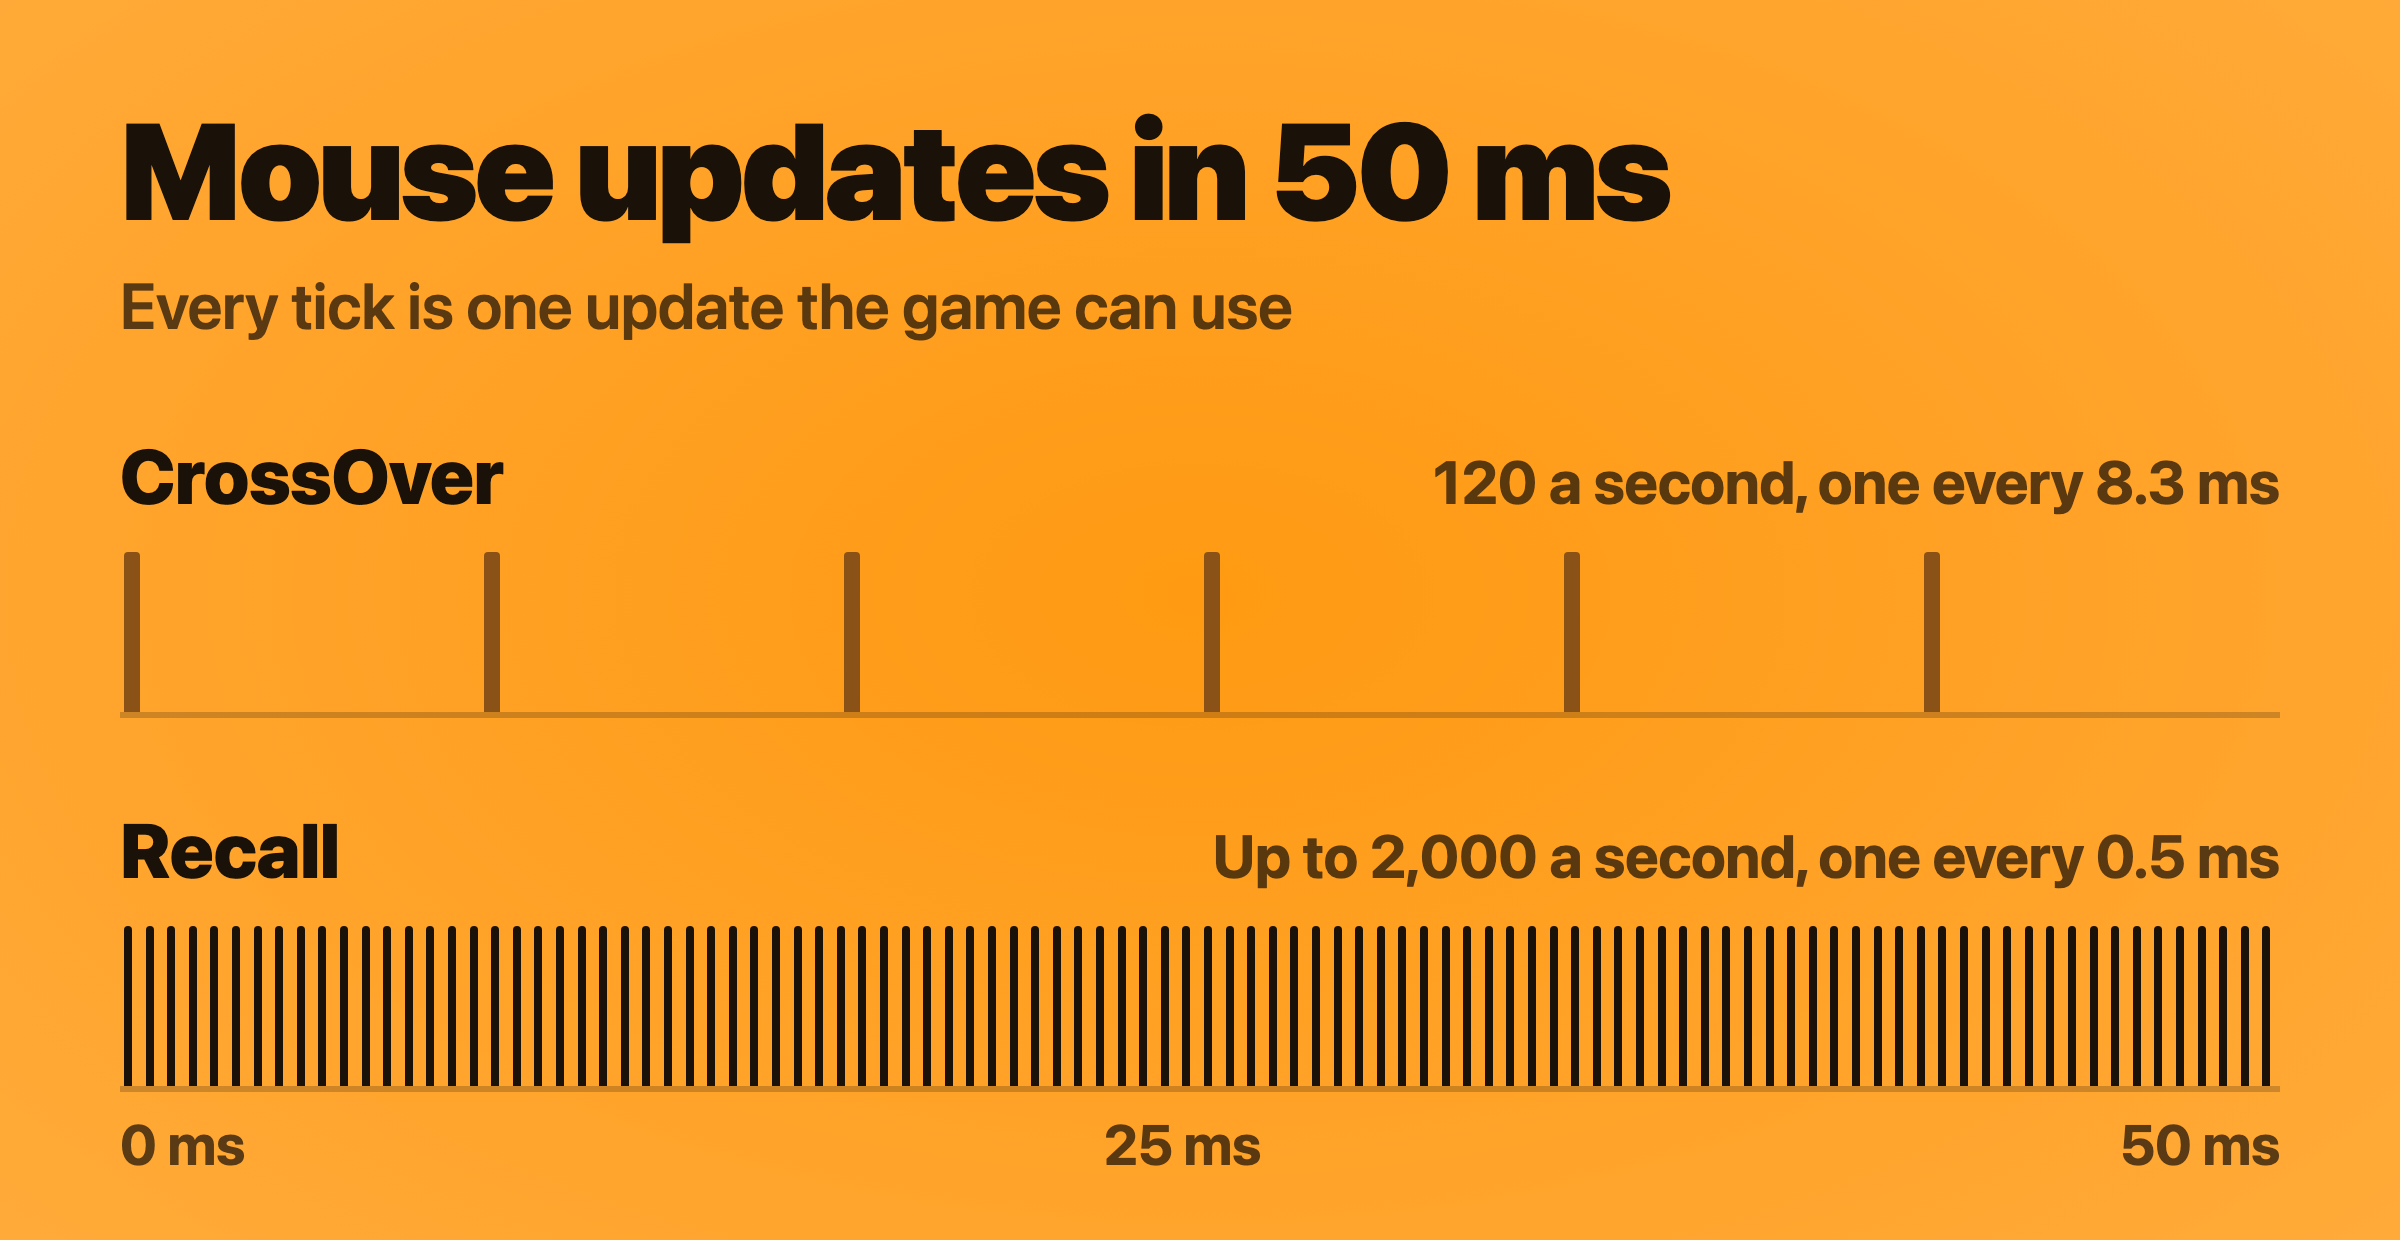
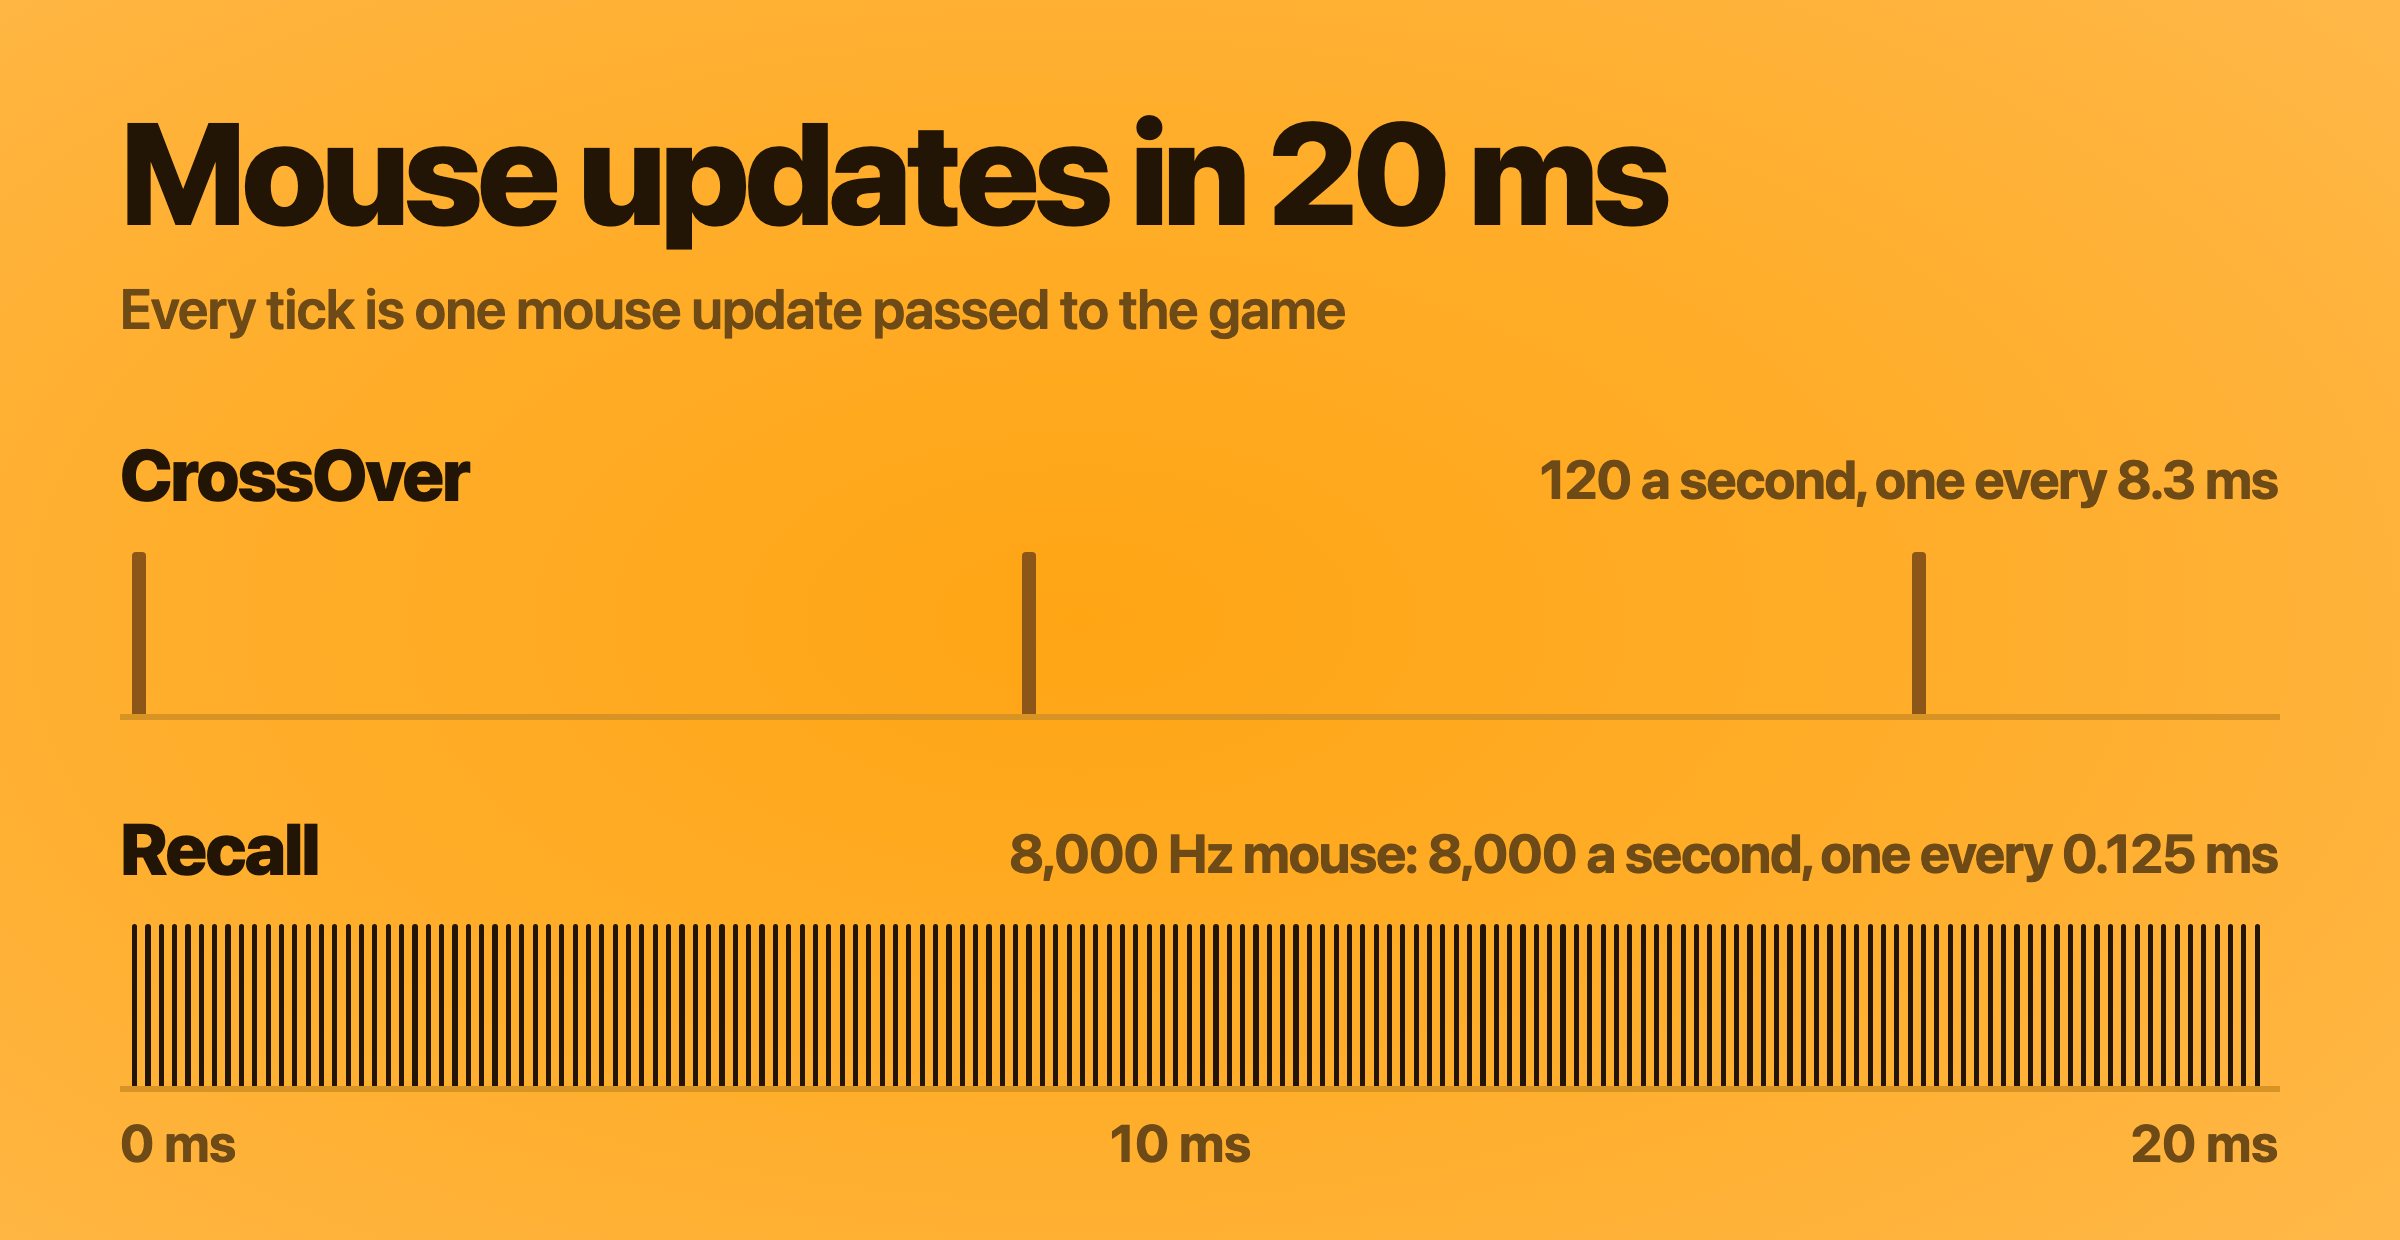
Docs: the High-precision mouse

diff --git a/scripts/repo_guard.py b/scripts/repo_guard.py
@@ -37,7 +37,7 @@ REVIEWED_ASSETS = {
[8 lines of base64/hex data omitted]

diff --git a/README.md b/README.md
@@ -24,11 +24,11 @@
   </tr>
   <tr>
     <td align="center"><h2>95%</h2>fewer stutters</td>
-    <td align="center"><h2>Up to 16×</h2>more mouse updates</td>
+    <td align="center"><h2>Up to 66×</h2>more mouse updates</td>
   </tr>
 </table>
 
-<p align="center"><sub>Compared with CrossOver on the same 14-inch MacBook Pro (M1 Pro, 16 GB), in the same custom match. Mouse: up to 2,000 updates a second in Recall, 120 in CrossOver.</sub></p>
+<p align="center"><sub>Compared with CrossOver on the same 14-inch MacBook Pro (M1 Pro, 16 GB), in the same custom match. Mouse: up to 8,000 updates a second in Recall with an 8,000 Hz mouse, 120 in CrossOver.</sub></p>
 
 https://github.com/user-attachments/assets/c0f5cac1-67fb-4b75-8bf9-06ccf402ae42
 
@@ -40,7 +40,7 @@ Recall offers the most optimized and seamless Overwatch experience on Apple Sili
 
 - **Smoother matches.** In the same match on the same Mac, Recall averaged 70% more frames per second than CrossOver, with 1% lows nearly five times higher and 95% fewer stutters.
 - **More FPS with MetalFX upscaling.** Overwatch draws fewer pixels and Apple's MetalFX rebuilds the full-resolution picture: up to 77% more frames per second at 1440p on the High preset. [How it works](docs/METALFX.md).
-- **Aim that keeps up.** Recall reads your mouse directly, up to 2,000 times a second. Your flicks and tracking reach the game sooner and land exactly where your hand put them.
+- **Aim that keeps up.** Recall reads your mouse directly, skipping macOS's mouse layer, and passes every update to the game: up to 8,000 a second with an 8,000 Hz mouse. Your flicks and tracking reach the game sooner and land exactly where your hand put them.
 - **Free.** No price, trial, subscription, ads or account. The code is open source.
 - **Download, sign in, play.** Recall installs what it needs and opens Battle.net for you. Play on your MacBook's screen or an external monitor, ultrawide and 5K included.
 
@@ -67,7 +67,7 @@ CrossOver is the most popular way to play Windows games on a Mac, so it's the co
 
 Curious how Recall gets these results? See [how Recall runs faster](docs/HOW-IT-WORKS.md).
 
-**Your aim.** Overwatch is decided by flicks and tracking, so how the mouse reaches the game matters as much as frame rate. CrossOver waits for macOS to update the pointer, 120 times a second, and drops a little of your movement each time the game snaps its hidden cursor back to the center. Recall reads the mouse directly, up to 2,000 times a second, the way native Mac games do, so none of your movement is lost and it reaches the game with less delay. [How each one handles the mouse](docs/PERFORMANCE.md#mouse-input).
+**Your aim.** Overwatch is decided by flicks and tracking, so how the mouse reaches the game matters as much as frame rate. CrossOver waits for macOS to update the pointer, 120 times a second, and drops a little of your movement each time the game snaps its hidden cursor back to the center. Recall reads your mouse directly, skipping macOS's mouse layer, and passes every update to the game, up to 8,000 a second with an 8,000 Hz mouse. It never snaps the cursor back, so none of your movement is lost, and it reaches the game sooner. The first time, Recall asks you to allow Input Monitoring in macOS; it reads only your mouse. [How each one handles the mouse](docs/PERFORMANCE.md#mouse-input).
 
 **Price.** CrossOver costs $74 with a year of updates, or $494 for life. Recall is free.
 

diff --git a/docs/HOW-IT-WORKS.md b/docs/HOW-IT-WORKS.md
@@ -2,7 +2,7 @@
 
 On the same MacBook Pro, in the same custom game, Recall averaged 70% more
 frames per second than CrossOver, with 1% lows about five times higher, 95%
-fewer stutters and up to 16 times more mouse updates. This page explains what
+fewer stutters and up to 66 times more mouse updates. This page explains what
 Recall does differently to get there. The full results are in the
 [performance notes](PERFORMANCE.md).
 
@@ -32,7 +32,7 @@ the changes on this page, made to DXMT and Wine for Overwatch.
 | +70% average FPS | Keeping Apple's image compression on, a cheaper scaling step, a third frame buffer |
 | 5× higher 1% lows | Waits that end on time, and frame pacing |
 | 95% fewer stutters | Shaders prepared before they're needed, and Wine's freezes removed |
-| Up to 16× more mouse updates | Reading the mouse directly |
+| Up to 66× more mouse updates | Reading the mouse directly |
 
 **About the numbers below.** Each change was measured on my M1 Pro by testing
 Recall with and without it. Recall's developer tools can replay a recorded match
@@ -126,13 +126,14 @@ re-reads happened during play.
 
 CrossOver gets mouse movement from macOS pointer updates, 120 times a second.
 Every time Overwatch snaps its hidden cursor back to the center of the screen,
-a little of your movement is lost. Recall reads the mouse directly, up to 2,000
-times a second depending on your mouse, the way native Mac games do, so none of
-your movement is lost. The [mouse input notes](PERFORMANCE.md#mouse-input) have
+a little of your movement is lost. Recall reads your mouse directly, skipping
+macOS's mouse layer, and passes every update your mouse sends to the game: up
+to 8,000 a second with an 8,000 Hz mouse. It never snaps the cursor back, so
+none of your movement is lost. The [mouse input notes](PERFORMANCE.md#mouse-input) have
 the details. Trackpads keep working the usual way.
 
 <p align="center">
-  <img src="../app/Resources/HowItWorksMouse.png" width="100%" alt="Mouse updates in 50 ms. CrossOver: 6 updates, 120 a second, one every 8.3 ms. Recall: 100 updates, up to 2,000 a second, one every 0.5 ms.">
+  <img src="../app/Resources/HowItWorksMouse.png" width="100%" alt="Mouse updates in 20 ms. CrossOver: 3 updates, 120 a second, one every 8.3 ms. Recall with an 8,000 Hz mouse: 160 updates, 8,000 a second, one every 0.125 ms.">
 </p>
 
 ## The code

diff --git a/docs/SUPPORT.md b/docs/SUPPORT.md
@@ -66,6 +66,11 @@ app shows a reminder on its home screen while it's on; turn it off when you're d
   as an NVIDIA GeForce RTX 4090 (that's how it offers DLSS; your Mac does the
   work), and the NVIDIA Reflex option has no effect. See
   [how MetalFX upscaling works](METALFX.md).
+- <a id="id-high-precision"></a>**Allowing Input Monitoring for your mouse.** Recall reads your mouse
+  directly, which needs macOS's Input Monitoring permission. Choose Turn On… on the Play
+  screen's card (or Settings › General › Mouse › High-precision), then Turn On. When macOS
+  asks, choose Open System Settings and switch on Recall, then choose Quit & Reopen if macOS
+  offers it.
 - **My team can't hear me.** Open Settings › Audio in the app. If the microphone
   is off, choose Turn On…, switch on Recall in System Settings, then open Recall
   again. Then check the voice chat settings in Overwatch's Sound options.
@@ -162,6 +167,10 @@ people's names (such as in a device's name), Battle.net account numbers and
 sign-in codes, Windows user IDs, IPv6 addresses, hardware addresses, email
 addresses and BattleTags, and it never includes Overwatch's crash dumps. Logging
 (Settings › Advanced) is off unless you turn it on.
+To read your mouse directly, Recall uses macOS's Input Monitoring permission, which
+only you can allow, in System Settings. macOS describes it as receiving keystrokes
+because one permission covers both mice and keyboards; Recall opens only mice and
+reads only their movement and buttons, never your keyboard.
 Nothing is uploaded automatically, there is no project login, and the app does
 not inventory other apps. Battle.net and Apple handle their own sign-in and
 privacy.

diff --git a/docs/PERFORMANCE.md b/docs/PERFORMANCE.md
@@ -71,9 +71,8 @@ matters as much as frame rate. Recall and CrossOver handle it differently.
 
 | | CrossOver | Recall |
 |---|---|---|
-| How the mouse is read | Waits for macOS pointer updates | Directly from the mouse |
-| Updates per second | 120 | Up to 2,000, depending on your mouse |
-| Time from movement to update | About 4.5 ms on average | About 0.26 ms |
+| How the mouse is read | Waits for macOS pointer updates | Directly from the mouse, skipping macOS's mouse layer |
+| Updates per second | 120 | Every update your mouse sends: up to 8,000 with an 8,000 Hz mouse |
 | Movement lost when the game re-centers the cursor | Some | None |
 
 **Why it matters.** Like most shooters, Overwatch hides the cursor and snaps it
@@ -94,6 +93,11 @@ movement is thrown away. In engineering tests, the main thread's work per mouse
 update fell from 4.1–4.3 ms to 0.03 ms, and the slowest cursor re-centers fell
 from 2.5 ms to 0.2 ms. Part of any frame rate dip while turning is the game
 drawing new views, which happens in every app.
+
+**Input Monitoring.** Reading your mouse directly needs macOS's Input Monitoring
+permission, and the Play screen walks you through it the first time. macOS asks
+to let Recall "receive keystrokes" because one permission covers both mice and
+keyboards. Recall reads only your mouse, never your keyboard.
 
 These figures describe how each driver handles the mouse. They come from
 engineering tests of Wine's standard Mac driver and of Recall's, not from the
